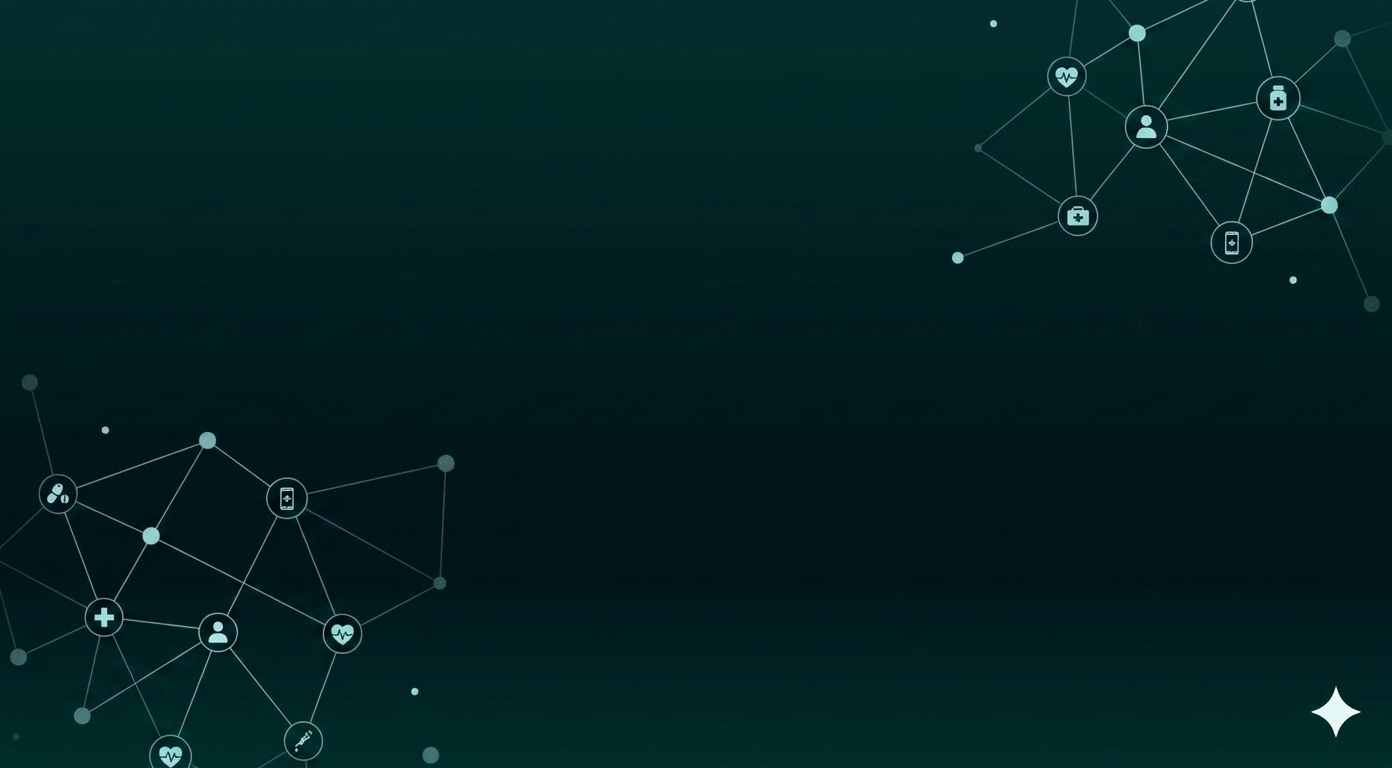
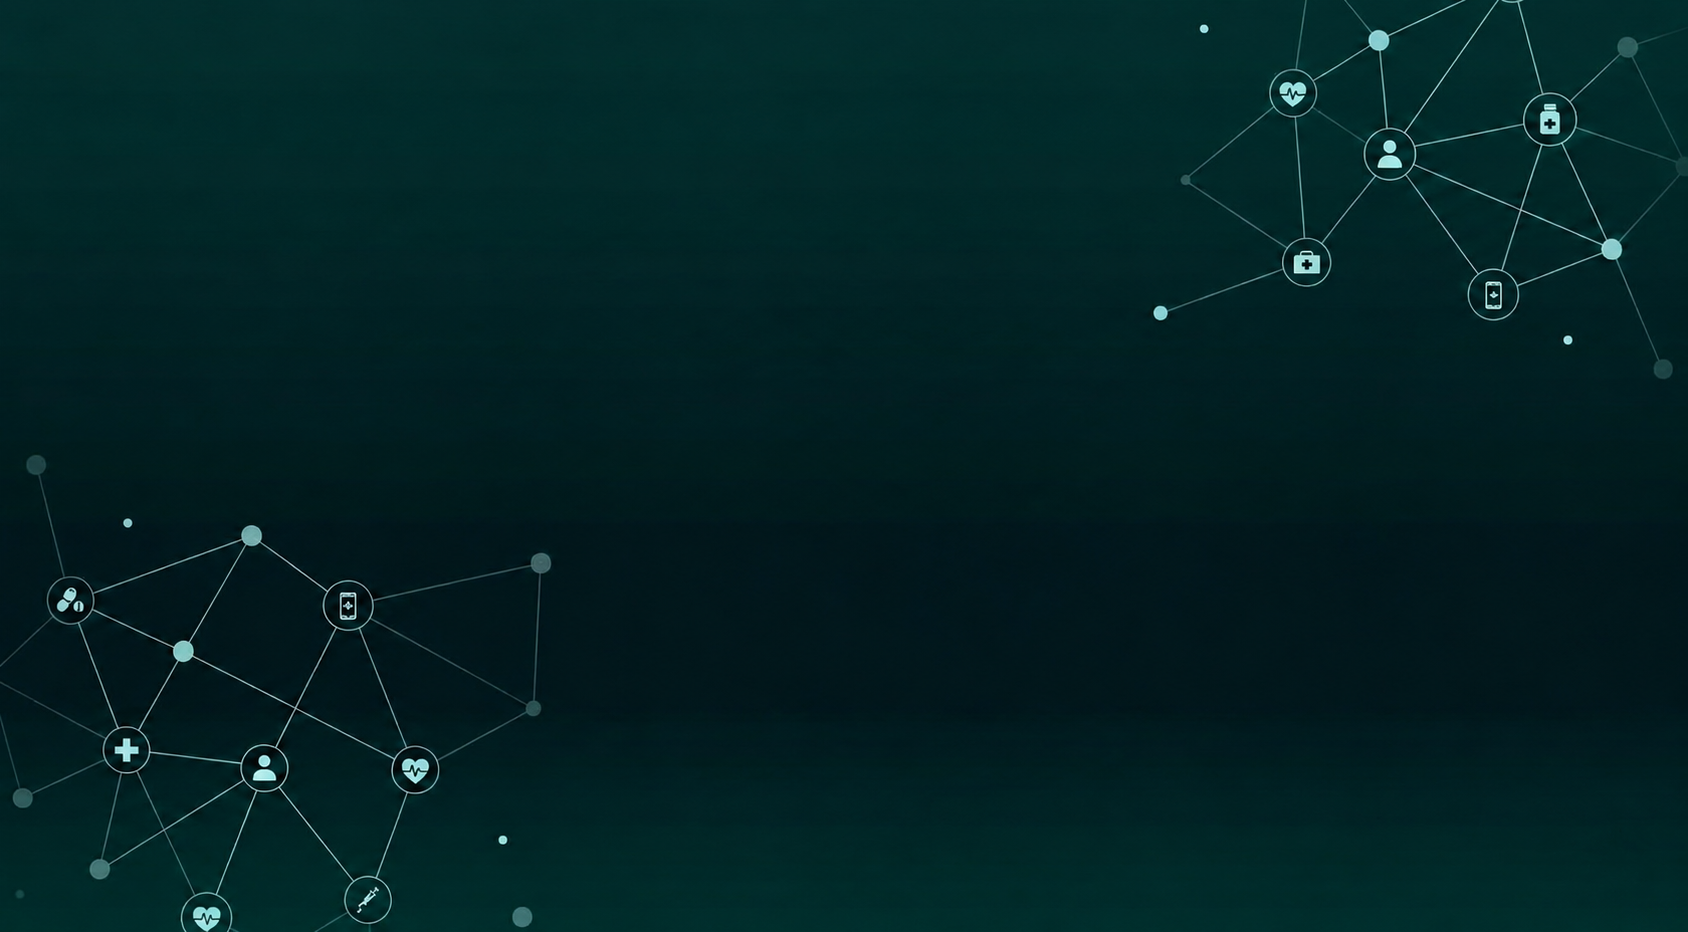
feat: Enhance payment and scheduling features with improved state management and API integration

diff --git a/frontend/src/app/(dashboards)/nutritionist/schedule/page.tsx b/frontend/src/app/(dashboards)/nutritionist/schedule/page.tsx
@@ -74,6 +74,9 @@ export default function SchedulePage() {
   const [availability, setAvailability] = useState<AvailabilitySlot[]>([]);
   const [holidays, setHolidays] = useState<Holiday[]>([]);
   const [isLoading, setIsLoading] = useState(true);
+  const [isSavingAvailability, setIsSavingAvailability] = useState(false);
+  const [isUpdatingZoom, setIsUpdatingZoom] = useState(false);
+  const [isAddingHoliday, setIsAddingHoliday] = useState(false);
 
   // ── Data Fetching ──────────────────────────────────────────────────
   useEffect(() => {
@@ -159,7 +162,7 @@ export default function SchedulePage() {
   const handleUpdateZoom = async (e: React.FormEvent) => {
     e.preventDefault();
     if (!selectedConsultation) return;
-
+    setIsUpdatingZoom(true);
     try {
       await patchConsultationZoomLink(selectedConsultation.id, zoomLinkInput);
       // Also update status to "notified" if currently "scheduled"
@@ -181,6 +184,8 @@ export default function SchedulePage() {
       toast.success("Zoom link updated. Client has been notified.");
     } catch {
       toast.error("Failed to update zoom link.");
+    } finally {
+      setIsUpdatingZoom(false);
     }
     setSelectedConsultation(null);
   };
@@ -188,7 +193,7 @@ export default function SchedulePage() {
   const handleAddHoliday = async (e: React.FormEvent) => {
     e.preventDefault();
     if (!holidayDateInput) return;
-
+    setIsAddingHoliday(true);
     try {
       const created = await addNutritionistHoliday(holidayDateInput);
       setHolidays([
@@ -199,6 +204,8 @@ export default function SchedulePage() {
       setHolidayDateInput("");
     } catch {
       toast.error("Failed to add holiday.");
+    } finally {
+      setIsAddingHoliday(false);
     }
   };
 
@@ -242,7 +249,9 @@ export default function SchedulePage() {
     });
   };
 
+  const [hasSaved, setHasSaved] = useState(false);
   const handleSaveAvailability = async () => {
+    setIsSavingAvailability(true);
     try {
       // Transform camelCase frontend state → snake_case API payload
       const payload: AvailabilitySlotPayload[] = availability.map((slot) => ({
@@ -252,8 +261,12 @@ export default function SchedulePage() {
       }));
       await putNutritionistAvailability(payload);
       toast.success("Availability preferences saved.");
+      setHasSaved(true);
+      setTimeout(() => setHasSaved(false), 2000);
     } catch {
       toast.error("Failed to save availability.");
+    } finally {
+      setIsSavingAvailability(false);
     }
   };
 
@@ -551,9 +564,22 @@ export default function SchedulePage() {
                   <CardFooter className="bg-muted border-t border-border rounded-b-xl py-4 flex justify-end">
                     <Button
                       onClick={handleSaveAvailability}
-                      className="shadow-sm"
+                      disabled={isSavingAvailability}
+                      className={`shadow-sm active:scale-95 transition-all duration-300 min-w-[160px] hover:shadow-md ${hasSaved ? "bg-emerald-600 hover:bg-emerald-700" : "bg-primary hover:bg-primary/90"}`}
                     >
-                      Save Restrictions
+                      {isSavingAvailability ? (
+                        <>
+                          <Loader2 className="w-4 h-4 mr-2 animate-spin" />
+                          Saving...
+                        </>
+                      ) : hasSaved ? (
+                        <>
+                          <CheckCircle className="w-4 h-4 mr-2" />
+                          Saved!
+                        </>
+                      ) : (
+                        "Save Restrictions"
+                      )}
                     </Button>
                   </CardFooter>
                 </Card>
@@ -582,12 +608,19 @@ export default function SchedulePage() {
                             }
                             className="w-full h-11 border-border focus-visible:ring-destructive"
                           />
-                          <Button
+                           <Button
                             type="submit"
                             variant="outline"
-                            className="h-11 border-destructive/20 text-destructive hover:bg-destructive/10 px-8"
+                            disabled={isAddingHoliday}
+                            className="h-11 border-destructive/20 text-destructive hover:bg-destructive/10 px-8 active:scale-95 transition-all duration-200 min-w-[120px]"
                           >
-                            <Plus className="w-4 h-4 mr-2" /> Block
+                            {isAddingHoliday ? (
+                              <Loader2 className="w-4 h-4 animate-spin" />
+                            ) : (
+                              <>
+                                <Plus className="w-4 h-4 mr-2" /> Block
+                              </>
+                            )}
                           </Button>
                         </div>
                       </div>
@@ -701,8 +734,19 @@ export default function SchedulePage() {
                         placeholder="https://zoom.us/j/..."
                       />
                     </div>
-                    <Button type="submit" className="w-full mt-2">
-                      Update & Notify Client
+                     <Button
+                      type="submit"
+                      disabled={isUpdatingZoom}
+                      className="w-full mt-2 active:scale-95 transition-all duration-200"
+                    >
+                      {isUpdatingZoom ? (
+                        <>
+                          <Loader2 className="w-4 h-4 mr-2 animate-spin" />
+                          Updating...
+                        </>
+                      ) : (
+                        "Update & Notify Client"
+                      )}
                     </Button>
                   </div>
                 </form>

diff --git a/frontend/src/app/(dashboards)/nutritionist/marketplace-plans/page.tsx b/frontend/src/app/(dashboards)/nutritionist/marketplace-plans/page.tsx
@@ -218,7 +218,7 @@ export default function MarketplacePlansPage() {
             <Input
               type="search"
               placeholder="Search plans..."
-              className="pl-8 bg-background border-border"
+              className="pl-8 h-10 bg-background border-border focus-visible:ring-ring transition-all duration-200"
               value={search}
               onChange={(e) => setSearch(e.target.value)}
             />
@@ -306,7 +306,7 @@ export default function MarketplacePlansPage() {
                     value={planData.title}
                     onChange={(e) => setPlanData({...planData, title: e.target.value})}
                     placeholder="e.g. 30-Day Mediterranean Transformation" 
-                    className="h-11"
+                    className="h-11 bg-background border-border focus-visible:ring-ring transition-all duration-200"
                   />
                 </div>
                 <div className="space-y-2 md:col-span-2">
@@ -316,7 +316,7 @@ export default function MarketplacePlansPage() {
                     value={planData.description}
                     onChange={(e) => setPlanData({...planData, description: e.target.value})}
                     placeholder="Short plan overview for reviewers"
-                    className="h-11"
+                    className="h-11 bg-background border-border focus-visible:ring-ring transition-all duration-200"
                   />
                 </div>
                 <div className="space-y-2">
@@ -327,7 +327,7 @@ export default function MarketplacePlansPage() {
                     min={1}
                     value={planData.duration}
                     onChange={(e) => setPlanData({...planData, duration: parseInt(e.target.value) || 7})}
-                    className="h-11"
+                    className="h-11 bg-background border-border focus-visible:ring-ring transition-all duration-200"
                   />
                 </div>
                 <div className="space-y-2 md:col-span-1">
@@ -341,7 +341,7 @@ export default function MarketplacePlansPage() {
                       min={0}
                       value={planData.price}
                       onChange={(e) => setPlanData({...planData, price: parseFloat(e.target.value) || 0})}
-                      className="pl-7 h-11 border-primary/30 focus-visible:ring-ring"
+                      className="pl-7 h-11 bg-background border-border focus-visible:ring-ring transition-all duration-200"
                     />
                   </div>
                   <p className="text-xs text-muted-foreground mt-1.5">Set to 0 for a free plan.</p>
@@ -383,7 +383,7 @@ export default function MarketplacePlansPage() {
                           id="cover-image"
                           type="file"
                           accept="image/*"
-                          className="h-11 cursor-pointer file:mr-4 file:rounded-md file:border-0 file:bg-primary file:px-3 file:py-1.5 file:text-sm file:font-medium file:text-primary-foreground"
+                          className="h-11 bg-background border-border cursor-pointer file:mr-4 file:rounded-md file:border-0 file:bg-primary file:px-3 file:py-1.5 file:text-sm file:font-medium file:text-primary-foreground focus-visible:ring-ring transition-all duration-200"
                           onChange={(e) => {
                             const file = e.target.files?.[0] ?? null;
                             if (file && file.size > 5 * 1024 * 1024) {
@@ -455,7 +455,7 @@ export default function MarketplacePlansPage() {
                                       ),
                                     }))
                                   }
-                                  className="h-8 text-sm bg-background"
+                                  className="h-8 text-sm bg-background border-border focus-visible:ring-ring transition-all duration-200"
                                 />
                               </div>
                               <Input
@@ -473,15 +473,15 @@ export default function MarketplacePlansPage() {
                                     ),
                                   }))
                                 }
-                                className="h-8 text-sm bg-background"
+                                className="h-8 text-sm bg-background border-border focus-visible:ring-ring transition-all duration-200"
                               />
                             </div>
                             {/* Ingredients */}
                             {meal.ingredients.map((ing, ingIdx) => (
                               <div key={ingIdx} className="flex items-center gap-1.5">
-                                <Input placeholder="Ingredient" value={ing.name} onChange={(e) => { const updated = [...meal.ingredients]; updated[ingIdx] = { ...updated[ingIdx], name: e.target.value }; setPlanData((prev) => ({ ...prev, days: prev.days.map((item, di) => di === index ? { ...item, [mealKey]: { ...item[mealKey], ingredients: updated } } : item) })); }} className="h-7 text-xs bg-background flex-1" />
-                                <Input placeholder="Amt" value={ing.amount} onChange={(e) => { const updated = [...meal.ingredients]; updated[ingIdx] = { ...updated[ingIdx], amount: e.target.value }; setPlanData((prev) => ({ ...prev, days: prev.days.map((item, di) => di === index ? { ...item, [mealKey]: { ...item[mealKey], ingredients: updated } } : item) })); }} className="h-7 text-xs bg-background w-16" />
-                                <Input placeholder="Unit" value={ing.unit} onChange={(e) => { const updated = [...meal.ingredients]; updated[ingIdx] = { ...updated[ingIdx], unit: e.target.value }; setPlanData((prev) => ({ ...prev, days: prev.days.map((item, di) => di === index ? { ...item, [mealKey]: { ...item[mealKey], ingredients: updated } } : item) })); }} className="h-7 text-xs bg-background w-16" />
+                                <Input placeholder="Ingredient" value={ing.name} onChange={(e) => { const updated = [...meal.ingredients]; updated[ingIdx] = { ...updated[ingIdx], name: e.target.value }; setPlanData((prev) => ({ ...prev, days: prev.days.map((item, di) => di === index ? { ...item, [mealKey]: { ...item[mealKey], ingredients: updated } } : item) })); }} className="h-7 text-xs bg-background border-border focus-visible:ring-ring flex-1 transition-all duration-200" />
+                                <Input placeholder="Amt" value={ing.amount} onChange={(e) => { const updated = [...meal.ingredients]; updated[ingIdx] = { ...updated[ingIdx], amount: e.target.value }; setPlanData((prev) => ({ ...prev, days: prev.days.map((item, di) => di === index ? { ...item, [mealKey]: { ...item[mealKey], ingredients: updated } } : item) })); }} className="h-7 text-xs bg-background border-border focus-visible:ring-ring w-16 transition-all duration-200" />
+                                <Input placeholder="Unit" value={ing.unit} onChange={(e) => { const updated = [...meal.ingredients]; updated[ingIdx] = { ...updated[ingIdx], unit: e.target.value }; setPlanData((prev) => ({ ...prev, days: prev.days.map((item, di) => di === index ? { ...item, [mealKey]: { ...item[mealKey], ingredients: updated } } : item) })); }} className="h-7 text-xs bg-background border-border focus-visible:ring-ring w-16 transition-all duration-200" />
                                 <Button type="button" variant="ghost" size="sm" className="h-7 w-7 p-0 text-destructive/60" onClick={() => { const updated = meal.ingredients.filter((_, i) => i !== ingIdx); setPlanData((prev) => ({ ...prev, days: prev.days.map((item, di) => di === index ? { ...item, [mealKey]: { ...item[mealKey], ingredients: updated } } : item) })); }}><Trash2 className="w-3 h-3" /></Button>
                               </div>
                             ))}
@@ -489,7 +489,7 @@ export default function MarketplacePlansPage() {
                               <Plus className="w-3 h-3 mr-1" /> Ingredient
                             </Button>
                             <textarea
-                              className="flex min-h-[40px] w-full rounded-lg border border-border bg-background px-3 py-1.5 text-xs"
+                              className="flex min-h-[40px] w-full rounded-lg border border-border bg-background px-3 py-1.5 text-xs focus-visible:ring-1 focus-visible:ring-ring outline-none transition-all duration-200"
                               placeholder="Notes"
                               value={meal.notes}
                               onChange={(e) =>
@@ -508,7 +508,7 @@ export default function MarketplacePlansPage() {
                       })}
 
                       <textarea
-                        className="flex min-h-[60px] w-full rounded-lg border border-border bg-background px-3 py-2 text-sm"
+                        className="flex min-h-[60px] w-full rounded-lg border border-border bg-background px-3 py-2 text-sm focus-visible:ring-1 focus-visible:ring-ring outline-none transition-all duration-200"
                         placeholder="Day instructions"
                         value={day.instructions}
                         onChange={(event) =>

diff --git a/frontend/src/components/scheduleconsultation.tsx b/frontend/src/components/scheduleconsultation.tsx
@@ -20,6 +20,7 @@ import {
   getNutritionistAvailability,
   getNutritionistProfile,
   MarketplaceNutritionistProfile,
+  resolveApiUrl,
 } from "@/lib/api";
 import { buildPaymentUrl } from "@/lib/payment";
 import NutritionistProfileModal from "./NutritionistProfileModal";
@@ -67,11 +68,7 @@ function mapNutritionistProfile(
     ].filter(Boolean) as string[],
     bio: profile.bio ?? "",
     consultation_price: Number(profile.consultation_price ?? 0),
-    profile_image: profile.profile_photo_url
-      ? profile.profile_photo_url.startsWith("http")
-        ? profile.profile_photo_url
-        : `http://127.0.0.1:8000/${profile.profile_photo_url}`
-      : "/placeholder-avatar.png",
+    profile_image: resolveApiUrl(profile.profile_photo_url) ?? "/placeholder-avatar.png",
   };
 }
 
@@ -239,6 +236,8 @@ export default function ScheduleConsultation({
     if (!selectedSlot || !nutritionist) return;
 
     setIsRedirectingToPayment(true);
+    const totalPrice = (nutritionist?.consultation_price ?? 0) + (consultationType === "plan_included" ? 50 : 0);
+
     const paymentHref = buildPaymentUrl({
       type: "consultation",
       nutritionistId: Number(nutritionist.id),
@@ -246,6 +245,7 @@ export default function ScheduleConsultation({
       startTime: selectedSlot.start_time,
       endTime: selectedSlot.end_time,
       consultationType,
+      amount: totalPrice,
     });
     router.push(paymentHref);
   };
@@ -502,7 +502,7 @@ export default function ScheduleConsultation({
                   Total Due Today
                 </span>
                 <span className="font-serif text-3xl text-foreground font-bold">
-                  ${currentNutritionist.consultation_price.toFixed(2)}
+                  ${(currentNutritionist.consultation_price + (consultationType === "plan_included" ? 50 : 0)).toFixed(2)}
                 </span>
               </div>
               <p className="text-xs text-muted-foreground text-right mt-1">

diff --git a/frontend/src/components/payment.tsx b/frontend/src/components/payment.tsx
@@ -226,7 +226,7 @@ export default function SecurePayment() {
           setSummary({
             title: getConsultationTypeLabel(context.consultationType),
             provider: profile.user?.username || profile.username || "Nutritionist",
-            amount: Number(profile.consultation_price ?? 0),
+            amount: context.amount ?? Number(profile.consultation_price ?? 0),
             description: `Scheduled for ${context.appointmentDate} from ${context.startTime} to ${context.endTime}.`,
           });
           return;
@@ -300,6 +300,8 @@ export default function SecurePayment() {
           consultation_type: context.consultationType,
           user_plan_id: context.userPlanId,
           is_free_from_plan: context.isFreeFromPlan || false,
+          amount_paid: summary.amount,
+          transaction_number: generatedTransactionNumber,
         });
         setSuccessMessage("Payment confirmed. Your consultation booking has been submitted successfully.");
       }

diff --git a/frontend/src/lib/payment.ts b/frontend/src/lib/payment.ts
@@ -21,6 +21,7 @@ export type ConsultationPaymentContext = {
   startTime: string;
   endTime: string;
   consultationType: ConsultationPaymentType;
+  amount?: number;
   userPlanId?: number;
   isFreeFromPlan?: boolean;
 };
@@ -64,6 +65,7 @@ export function buildPaymentUrl(context: PaymentContext): string {
     params.set("startTime", context.startTime);
     params.set("endTime", context.endTime);
     params.set("consultationType", context.consultationType);
+    if (context.amount) params.set("amount", String(context.amount));
     if (context.userPlanId) params.set("userPlanId", String(context.userPlanId));
     if (context.isFreeFromPlan) params.set("isFreeFromPlan", "true");
   }
@@ -112,6 +114,7 @@ export function parsePaymentContext(searchParams: SearchParamReader): PaymentCon
     const startTime = searchParams.get("startTime");
     const endTime = searchParams.get("endTime");
     const consultationType = searchParams.get("consultationType");
+    const amount = parsePositiveInteger(searchParams.get("amount"));
     const userPlanId = parsePositiveInteger(searchParams.get("userPlanId"));
     const isFreeFromPlan = searchParams.get("isFreeFromPlan") === "true";
 
@@ -132,6 +135,7 @@ export function parsePaymentContext(searchParams: SearchParamReader): PaymentCon
       startTime,
       endTime,
       consultationType,
+      ...(amount ? { amount } : {}),
       ...(userPlanId ? { userPlanId } : {}),
       isFreeFromPlan,
     };

diff --git a/frontend/src/lib/api.ts b/frontend/src/lib/api.ts
@@ -255,6 +255,8 @@ export const bookConsultation = async (payload: {
   consultation_type: "advice_only" | "plan_included";
   user_plan_id?: number;
   is_free_from_plan: boolean;
+  amount_paid?: number;
+  transaction_number?: string;
 }) => {
   const response = await api.post("client/consultations/book/", payload);
   return unwrapResponse(response.data);